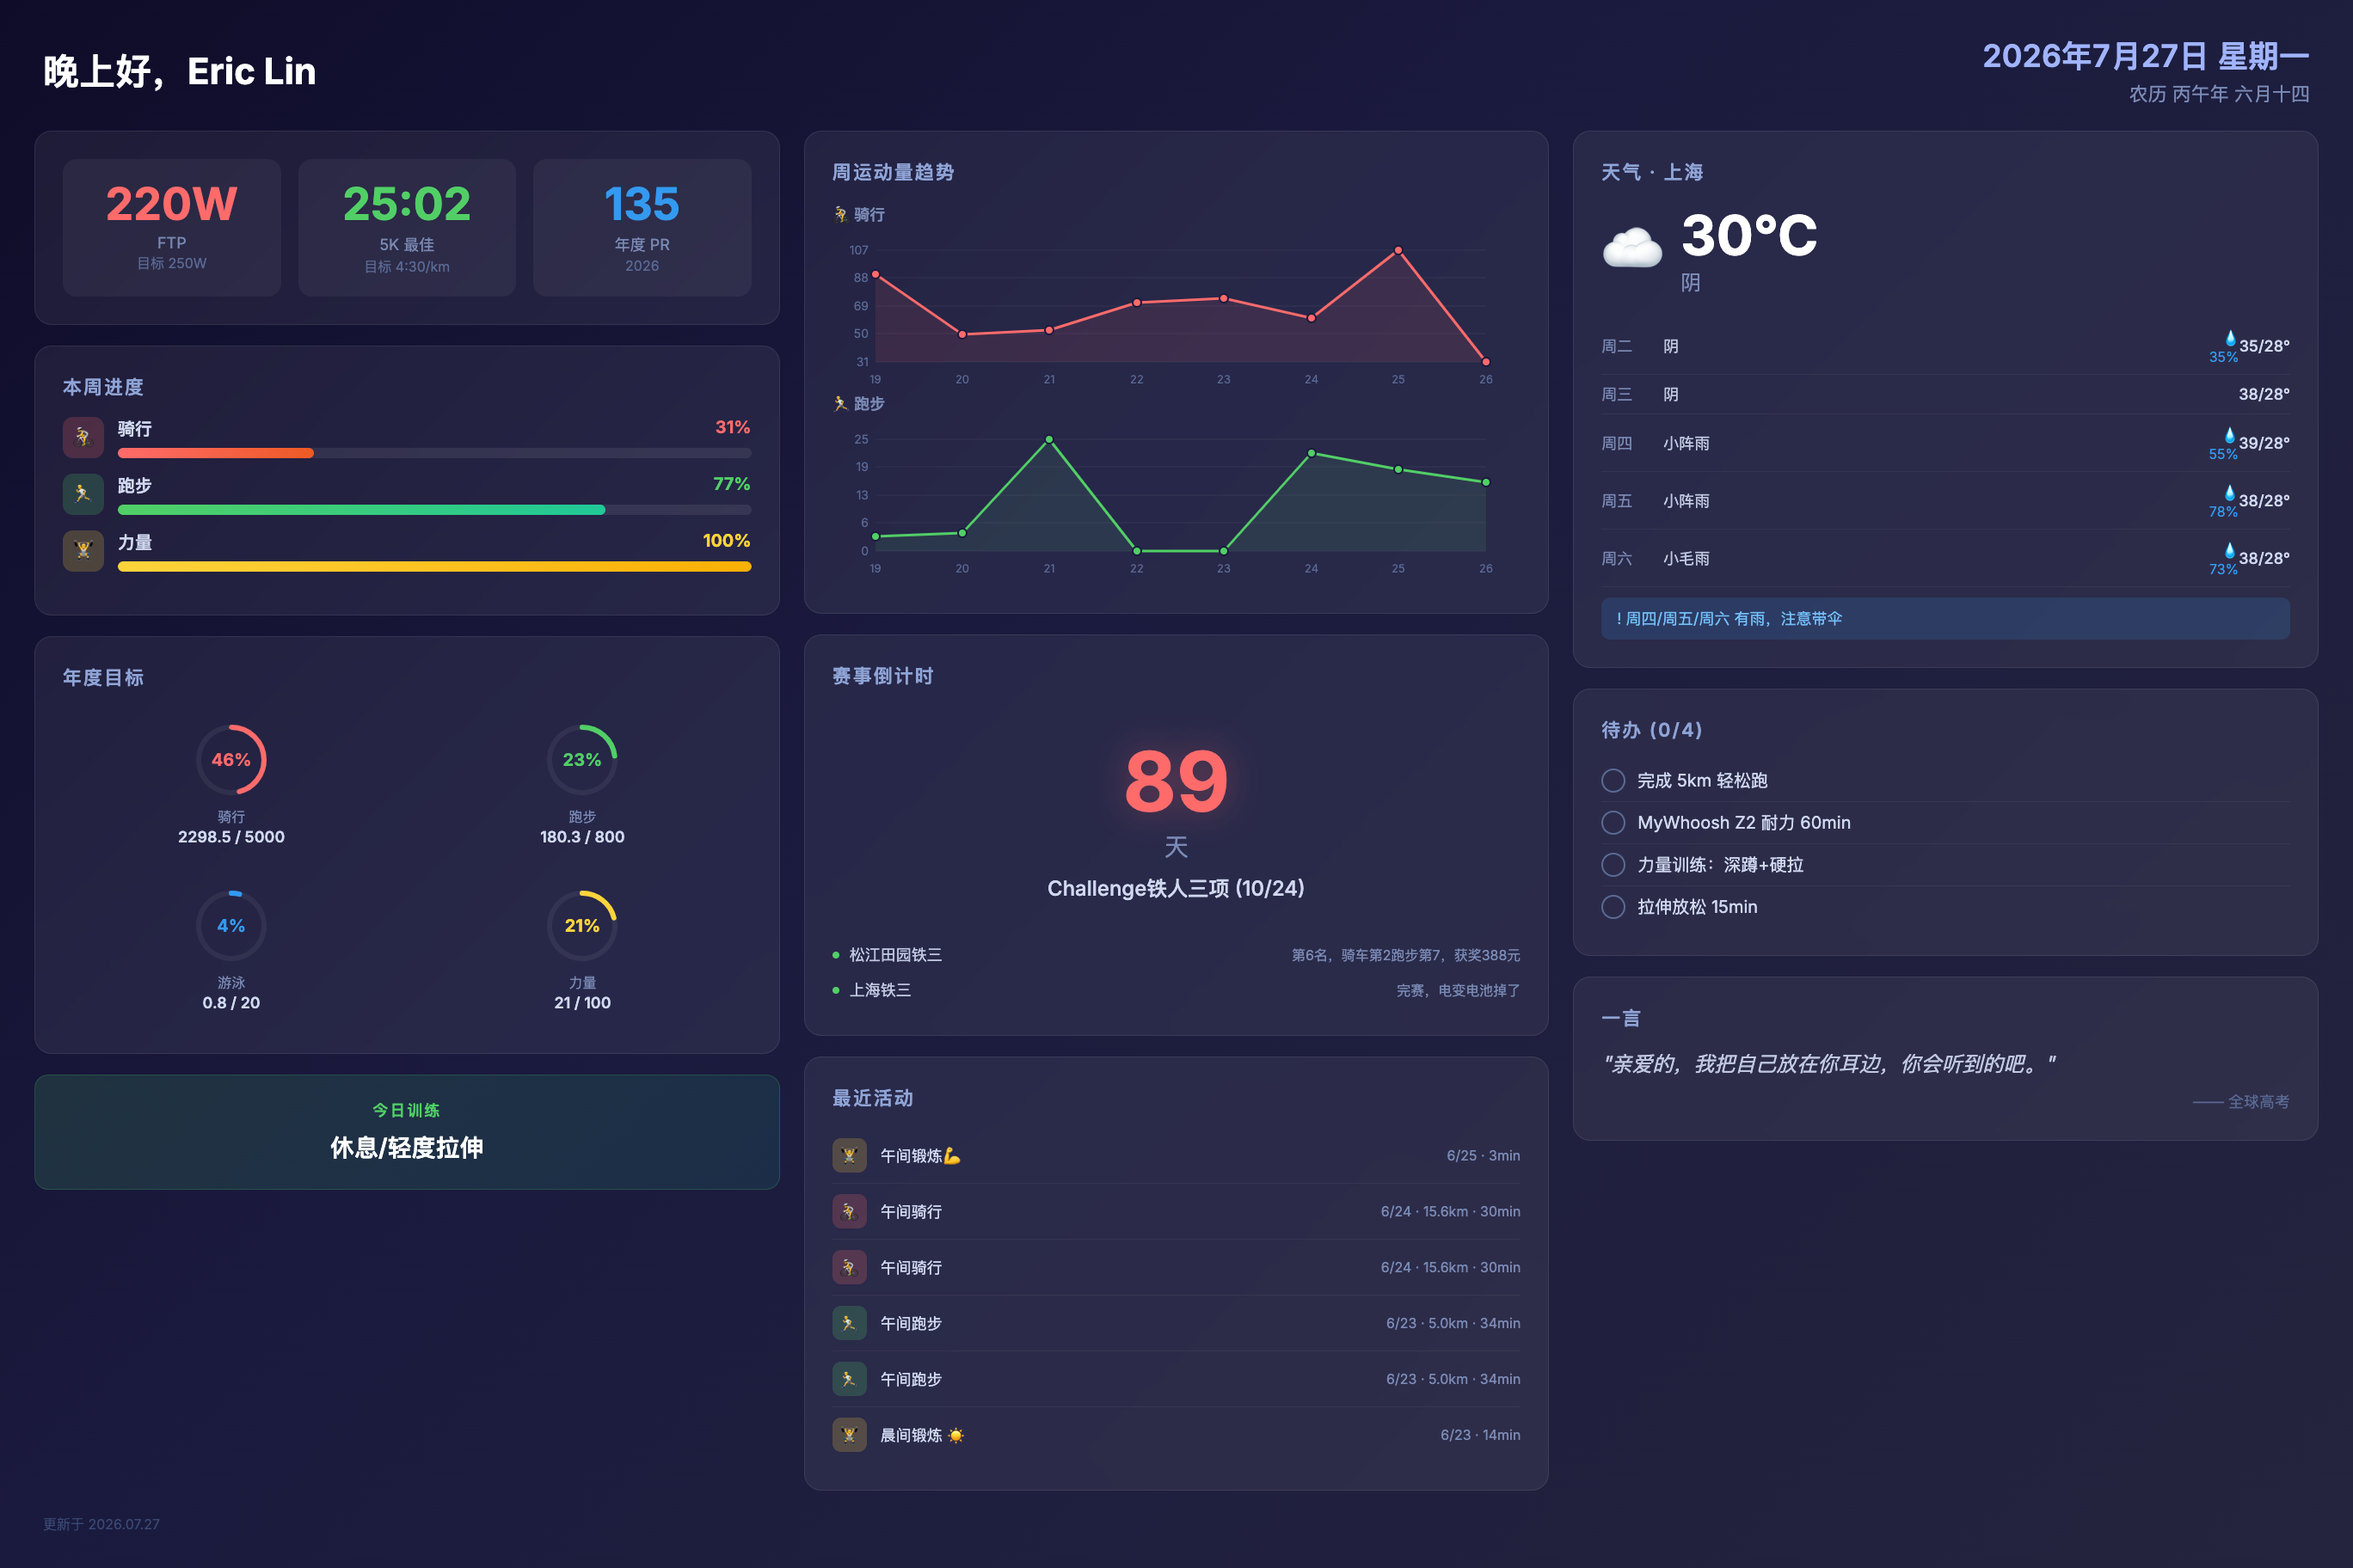
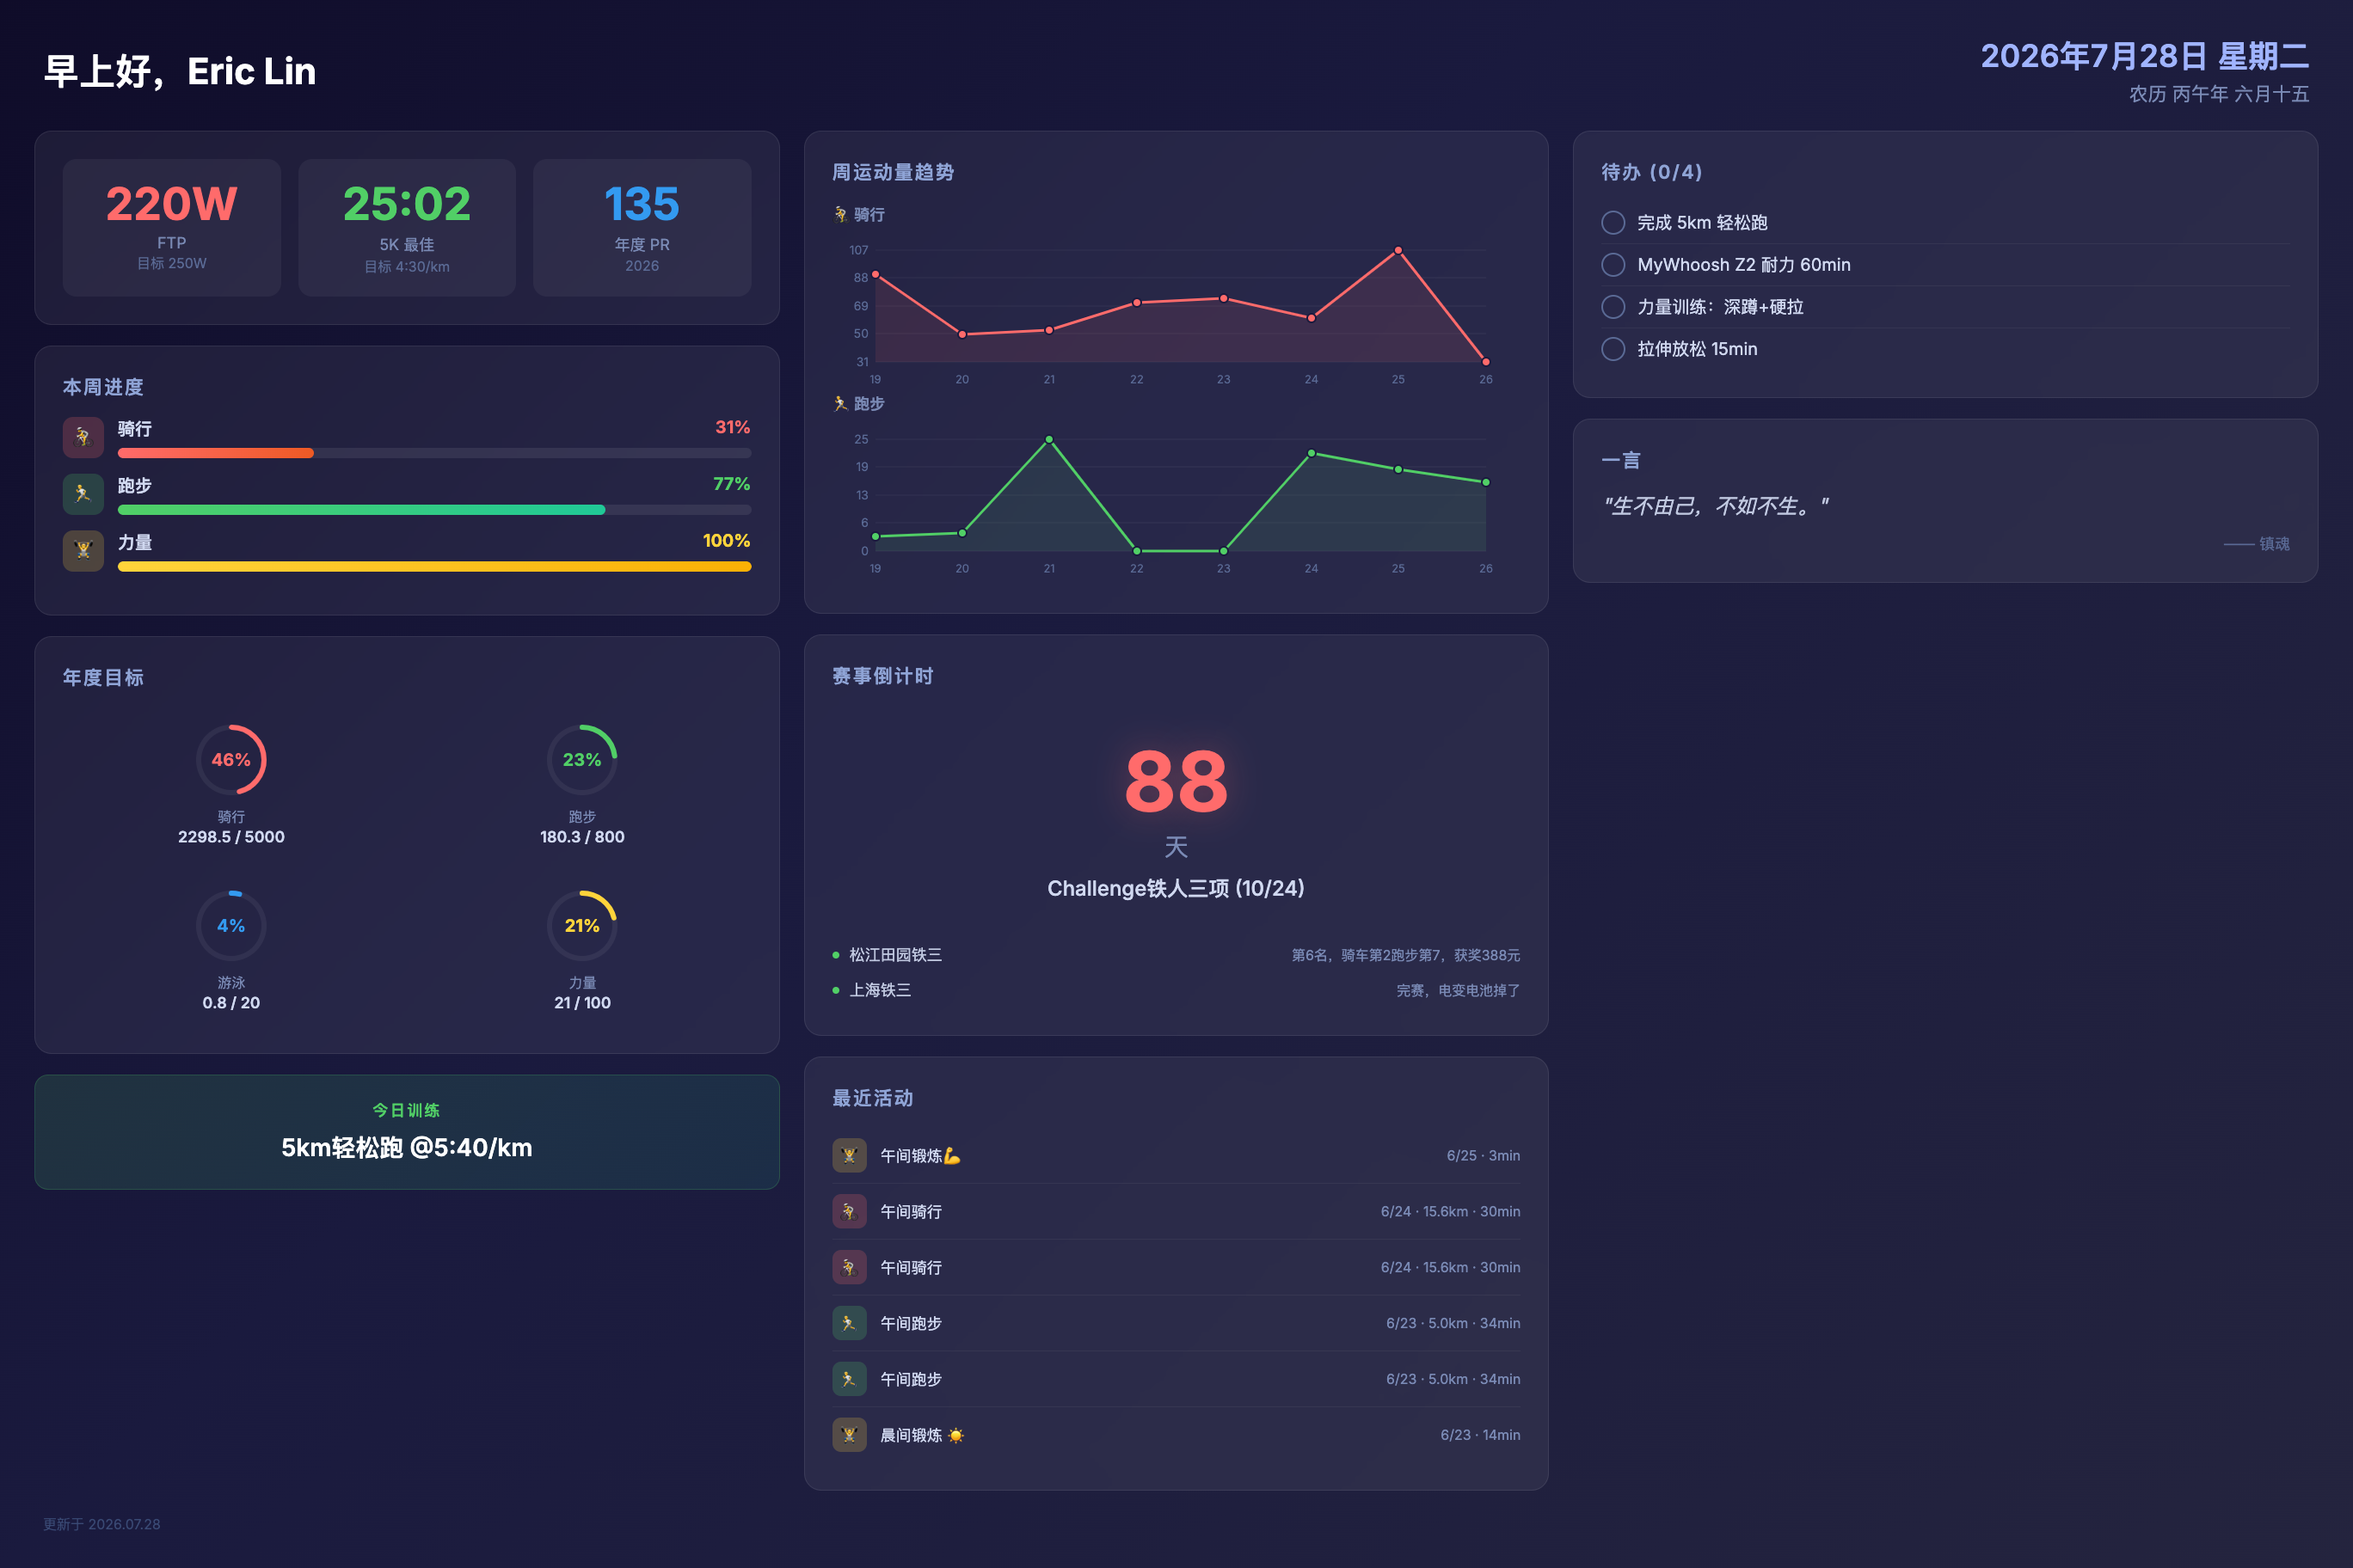
deploy: 2026-07-28-07:00

diff --git a/screensaver.html b/screensaver.html
@@ -490,13 +490,13 @@ html, body {
 <!-- ===== TOP BAR ===== -->
 <div class="top-bar">
   <div>
-    <div class="greeting">晚上好，Eric Lin</div>
+    <div class="greeting">早上好，Eric Lin</div>
     
   </div>
   <div class="date-info">
-    <div class="solar-date">2026年7月27日 星期一</div>
+    <div class="solar-date">2026年7月28日 星期二</div>
     
-    <div class="lunar-date">农历 丙午年 六月十四</div>
+    <div class="lunar-date">农历 丙午年 六月十五</div>
     
   </div>
 </div>
@@ -638,7 +638,7 @@ html, body {
   
   <div class="ai-today-card">
     <div class="ai-today-label">今日训练</div>
-    <div class="ai-today-text">休息/轻度拉伸</div>
+    <div class="ai-today-text">5km轻松跑 @5:40/km</div>
   </div>
   
 
@@ -732,7 +732,7 @@ html, body {
   <div class="card">
     <div class="card-title">赛事倒计时</div>
     <div class="race-countdown">
-      <div class="countdown-number">89</div>
+      <div class="countdown-number">88</div>
       <div class="countdown-unit">天</div>
       <div class="countdown-name">Challenge铁人三项 (10/24)</div>
     </div>
@@ -805,58 +805,6 @@ html, body {
 
   <!-- Weather -->
   
-  <div class="card">
-    <div class="card-title">天气 · 上海</div>
-    <div class="weather-current">
-      <div class="weather-icon-big">☁</div>
-      <div>
-        <div class="weather-temp-big">30°C</div>
-        <div class="weather-desc">阴</div>
-      </div>
-    </div>
-    
-    
-    <div class="forecast-row">
-      <div class="forecast-day">周二</div>
-      <div class="forecast-desc">阴</div>
-      <div class="forecast-precip">💧35%</div>
-      <div class="forecast-range">35/28°</div>
-    </div>
-    
-    <div class="forecast-row">
-      <div class="forecast-day">周三</div>
-      <div class="forecast-desc">阴</div>
-      <div class="forecast-precip"></div>
-      <div class="forecast-range">38/28°</div>
-    </div>
-    
-    <div class="forecast-row">
-      <div class="forecast-day">周四</div>
-      <div class="forecast-desc">小阵雨</div>
-      <div class="forecast-precip">💧55%</div>
-      <div class="forecast-range">39/28°</div>
-    </div>
-    
-    <div class="forecast-row">
-      <div class="forecast-day">周五</div>
-      <div class="forecast-desc">小阵雨</div>
-      <div class="forecast-precip">💧78%</div>
-      <div class="forecast-range">38/28°</div>
-    </div>
-    
-    <div class="forecast-row">
-      <div class="forecast-day">周六</div>
-      <div class="forecast-desc">小毛雨</div>
-      <div class="forecast-precip">💧73%</div>
-      <div class="forecast-range">38/28°</div>
-    </div>
-    
-    
-    
-    <div class="rain-alert">! 周四/周五/周六 有雨，注意带伞</div>
-    
-  </div>
-  
 
   <!-- Todos -->
   
@@ -902,9 +850,9 @@ html, body {
   
   <div class="card">
     <div class="card-title">一言</div>
-    <div class="quote-text">"亲爱的，我把自己放在你耳边，你会听到的吧。"</div>
+    <div class="quote-text">"生不由己，不如不生。"</div>
     
-    <div class="quote-from">—— 全球高考</div>
+    <div class="quote-from">—— 镇魂</div>
     
   </div>
   
@@ -913,7 +861,7 @@ html, body {
 
 <!-- ===== BOTTOM BAR ===== -->
 <div class="bottom-bar">
-  <div class="update-time">更新于 2026.07.27</div>
+  <div class="update-time">更新于 2026.07.28</div>
 </div>
 
 </div>

diff --git a/life.html b/life.html
@@ -89,7 +89,7 @@ html, body {
 <table class="header-table">
   <tr>
     <td class="header-left">生活</td>
-    <td class="header-right">2026.07.27</td>
+    <td class="header-right">2026.07.28</td>
   </tr>
 </table>
 
@@ -133,84 +133,16 @@ html, body {
 
 <!-- ===== 天气 ===== -->
 
-<div class="box">
-  <p class="section-title">☀ 天气 · 上海</p>
-  <table class="weather-table">
-    <tr>
-      <td class="weather-icon">~</td>
-      <td class="weather-temp">30°C</td>
-      <td class="weather-desc">阴</td>
-    </tr>
-  </table>
-  
-  <table class="forecast-table">
-    
-    <tr>
-      <td class="forecast-day">周二</td>
-      <td class="forecast-icon">~</td>
-      <td>阴</td>
-      <td class="forecast-range">35/28°C</td>
-    </tr>
-    
-    <tr>
-      <td class="forecast-day">周三</td>
-      <td class="forecast-icon">~</td>
-      <td>阴</td>
-      <td class="forecast-range">38/28°C</td>
-    </tr>
-    
-    <tr>
-      <td class="forecast-day">周四</td>
-      <td class="forecast-icon">.</td>
-      <td>小阵雨</td>
-      <td class="forecast-range">39/28°C</td>
-    </tr>
-    
-    <tr>
-      <td class="forecast-day">周五</td>
-      <td class="forecast-icon">.</td>
-      <td>小阵雨</td>
-      <td class="forecast-range">38/28°C</td>
-    </tr>
-    
-    <tr>
-      <td class="forecast-day">周六</td>
-      <td class="forecast-icon">.</td>
-      <td>小毛雨</td>
-      <td class="forecast-range">38/28°C</td>
-    </tr>
-    
-    <tr>
-      <td class="forecast-day">周日</td>
-      <td class="forecast-icon">.</td>
-      <td>小毛雨</td>
-      <td class="forecast-range">37/28°C</td>
-    </tr>
-    
-    <tr>
-      <td class="forecast-day">周一</td>
-      <td class="forecast-icon">~</td>
-      <td>阴</td>
-      <td class="forecast-range">38/28°C</td>
-    </tr>
-    
-  </table>
-  
-  
-  <div class="rain-alert">! 周四/周五/周六 有雨，注意带伞</div>
-  
-</div>
-
 
 <!-- ===== 今日 ===== -->
 <div class="box">
   <p class="section-title">📅 今日</p>
   <table class="data-table">
     <tr>
-      <td>2026年7月27日 星期日</td>
+      <td>2026年7月28日 星期一</td>
     </tr>
     <tr>
-      <td>农历丙午年 六月十四</td>
+      <td>农历丙午年 六月十五</td>
     </tr>
   </table>
 </div>
@@ -261,9 +193,9 @@ html, body {
 
 <div class="box">
   <p class="section-title">💬 一言</p>
-  <p class="quote-text">亲爱的，我把自己放在你耳边，你会听到的吧。</p>
+  <p class="quote-text">生不由己，不如不生。</p>
   
-  <p class="quote-from">—— 全球高考</p>
+  <p class="quote-from">—— 镇魂</p>
   
 </div>
 

diff --git a/index.html b/index.html
@@ -74,7 +74,7 @@ html, body {
 <table class="header-table">
   <tr>
     <td class="header-left">Eric Lin · 运动</td>
-    <td class="header-right">2026.07.27</td>
+    <td class="header-right">2026.07.28</td>
   </tr>
 </table>
 
@@ -225,17 +225,10 @@ html, body {
 <div class="ai-plan">
   <div class="ai-plan-title">AI 训练建议</div>
   
-  <div class="ai-today">今日: 休息</div>
+  <div class="ai-today">今日: 阈值训练 3×8min @260W</div>
   
   
   <table class="ai-weekly">
-    
-    <tr>
-      <td class="day">周一</td>
-      
-      <td class="rest">休息</td>
-      
-    </tr>
     
     <tr>
       <td class="day">周二</td>
@@ -279,6 +272,13 @@ html, body {
       
     </tr>
     
+    <tr>
+      <td class="day">周一</td>
+      
+      <td class="rest">休息</td>
+      
+    </tr>
+    
   </table>
   
   
@@ -293,7 +293,7 @@ html, body {
   <p class="section-title">即将到来</p>
   
   <div class="countdown-box">
-    <div class="countdown-days">89</div>
+    <div class="countdown-days">88</div>
     <div class="countdown-label">距 Challenge铁人三项 (10/24)</div>
   </div>
   

diff --git a/work.html b/work.html
@@ -89,7 +89,7 @@ html, body {
 <table class="header-table">
   <tr>
     <td class="header-left">工作</td>
-    <td class="header-right">2026.07.27</td>
+    <td class="header-right">2026.07.28</td>
   </tr>
 </table>
 
